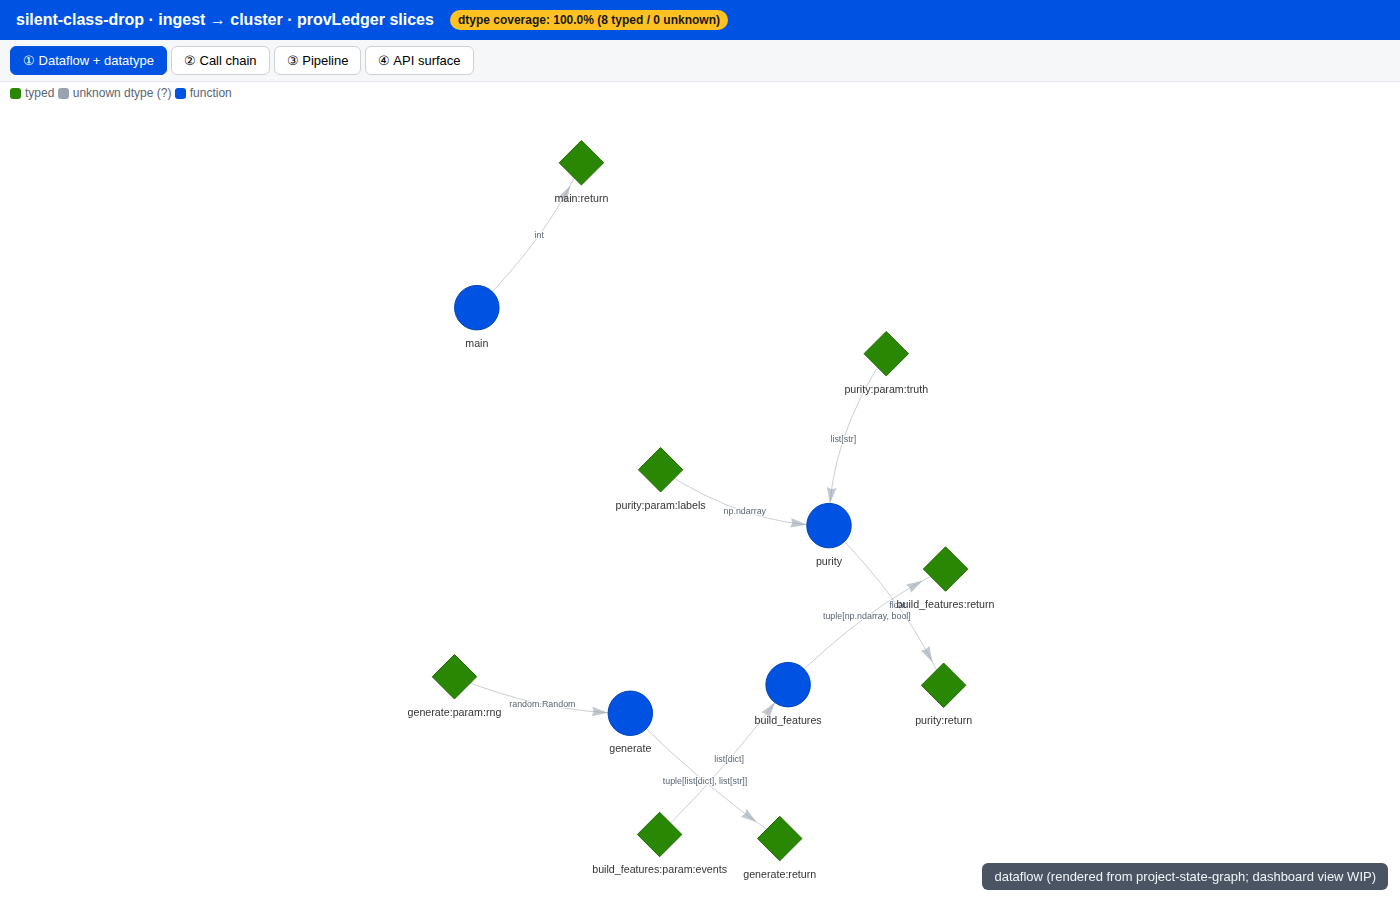
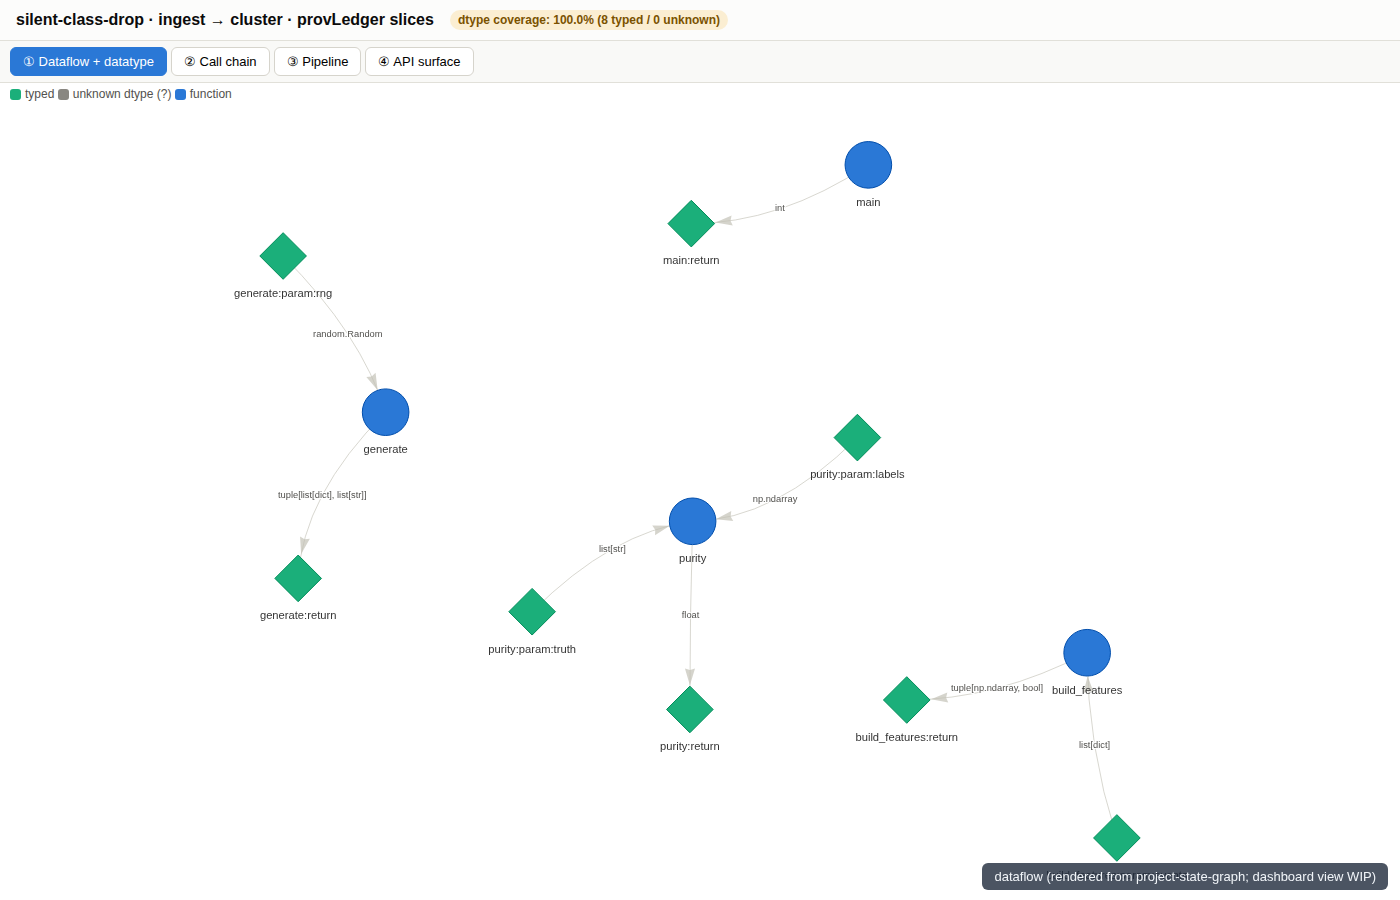
feat(viz): apply the validated palette to slice_viz + graph_viz
Same design language as the redesigned dashboard (PR #24), applied to the
project-state-graph visualizations:

- chrome: quiet surface header (solid blue banner gone), warm-neutral ink/
  hairline tokens, coverage badge as a warning-tint chip
- node identity -> categorical slots (function blue, typed data aqua, class
  yellow, route violet, sql orange, css magenta, ...); unknown-dtype sentinel
  -> muted ink; focus halo -> warning tint
- edges recessive (baseline tone) so marks carry the identity
- graph_viz.py kept byte-identical across both skills
- test_slice_viz gray assertions now reference slice_viz.GRAY instead of a
  hardcoded hex; PSG 232+update-psg 55 green
- docs/media/dataflow.png re-captured with the new palette

Claude-Session: https://claude.ai/code/session_01FTm5gcxZVgYtjLKCtARamY

diff --git a/skills/project-state-graph/scripts/analyzer/slice_viz.py b/skills/project-state-graph/scripts/analyzer/slice_viz.py
@@ -35,11 +35,11 @@ def _safe_json(data) -> str:
             .replace("
", "\\u2028").replace("
", "\\u2029"))
 
 # ── palette ────────────────────────────────────────────────────────────
-BRAND_BLUE = "#0053e2"
-SPARK = "#ffc220"
-GREEN = "#2a8703"
-ORANGE = "#ff8c00"
-GRAY = "#9aa3af"           # the "unknown dtype" sentinel color
+BRAND_BLUE = "#2a78d6"
+SPARK = "#fab219"
+GREEN = "#1baf7a"
+ORANGE = "#eb6834"
+GRAY = "#898781"           # the "unknown dtype" sentinel color (muted ink)
 
 UNKNOWN_DTYPES = {"", "unknown", "any", "object?"}
 
@@ -74,7 +74,7 @@ def build_dataflow(db_path: str) -> Dict:
     """Variable/column-granularity dataflow slice with dtype coverage.
 
     Returns ``{nodes, edges, dtype_coverage:{typed, unknown, pct}}``. Unknown
-    dtypes are gray (#9aa3af) with a trailing ``?`` in the label; typed nodes use
+    dtypes are gray (#898781) with a trailing ``?`` in the label; typed nodes use
     the brand palette. Flow edges carry a dtype ``label`` when known.
     """
     conn = _connect(db_path)
@@ -363,20 +363,20 @@ _SLICE_TEMPLATE = r"""<!DOCTYPE html><html lang="en"><head><meta charset="utf-8"
 <title>__TITLE__ — slices</title>
 <script src="https://unpkg.com/vis-network@9.1.9/standalone/umd/vis-network.min.js"></script>
 <style>
- *{box-sizing:border-box} body{margin:0;font-family:-apple-system,Segoe UI,Roboto,Arial,sans-serif;color:#16191f}
- header{background:#0053e2;color:#fff;padding:10px 16px;display:flex;gap:16px;align-items:center;flex-wrap:wrap}
+ *{box-sizing:border-box} body{margin:0;font-family:-apple-system,Segoe UI,Roboto,Arial,sans-serif;color:#0b0b0b}
+ header{background:#fcfcfb;color:#0b0b0b;border-bottom:1px solid #e1e0d9;padding:10px 16px;display:flex;gap:16px;align-items:center;flex-wrap:wrap}
  header h1{font-size:16px;margin:0;font-weight:600}
- .badge{background:#ffc220;color:#16191f;font-size:12px;font-weight:600;padding:3px 8px;border-radius:10px}
- .tabs{display:flex;gap:4px;background:#f6f7f9;border-bottom:1px solid #e3e6ea;padding:6px 10px}
- .tab{font-size:13px;padding:6px 12px;border:1px solid #cdd2d9;background:#fff;border-radius:6px;cursor:pointer}
- .tab.active{background:#0053e2;color:#fff;border-color:#0053e2}
+ .badge{background:rgba(250,178,25,.18);color:#7a5200;font-size:12px;font-weight:600;padding:3px 8px;border-radius:10px}
+ .tabs{display:flex;gap:4px;background:#f9f9f7;border-bottom:1px solid #e1e0d9;padding:6px 10px}
+ .tab{font-size:13px;padding:6px 12px;border:1px solid #d6d4cc;background:#fff;border-radius:6px;cursor:pointer}
+ .tab.active{background:#2a78d6;color:#fff;border-color:#2a78d6}
  .panel{display:none;height:calc(100vh - 96px)} .panel.active{display:block}
  .net{width:100%;height:100%}
- .toolbar{padding:6px 10px;font-size:12px;color:#5a6573;display:flex;gap:10px;align-items:center}
- .toolbar input{padding:4px 8px;border:1px solid #cdd2d9;border-radius:6px}
- table{border-collapse:collapse;width:100%;font-size:13px} th,td{border:1px solid #e3e6ea;padding:6px 10px;text-align:left;vertical-align:top}
- th{background:#f6f7f9} code{background:#f0f2f5;padding:1px 5px;border-radius:4px;font-size:12px}
- .legend{font-size:12px;color:#5a6573;padding:4px 10px}
+ .toolbar{padding:6px 10px;font-size:12px;color:#52514e;display:flex;gap:10px;align-items:center}
+ .toolbar input{padding:4px 8px;border:1px solid #d6d4cc;border-radius:6px}
+ table{border-collapse:collapse;width:100%;font-size:13px} th,td{border:1px solid #e1e0d9;padding:6px 10px;text-align:left;vertical-align:top}
+ th{background:#f9f9f7} code{background:#f0efec;padding:1px 5px;border-radius:4px;font-size:12px}
+ .legend{font-size:12px;color:#52514e;padding:4px 10px}
  .sw{display:inline-block;width:11px;height:11px;border-radius:3px;vertical-align:middle;margin-right:4px}
 </style></head><body>
 <header><h1>__TITLE__ · provLedger slices</h1>
@@ -388,15 +388,15 @@ _SLICE_TEMPLATE = r"""<!DOCTYPE html><html lang="en"><head><meta charset="utf-8"
  <button class="tab" data-p="api">④ API surface</button>
 </div>
 <div id="dataflow" class="panel active">
- <div class="legend"><span class="sw" style="background:#2a8703"></span>typed
-  <span class="sw" style="background:#9aa3af"></span>unknown dtype (?)
-  <span class="sw" style="background:#0053e2"></span>function</div>
+ <div class="legend"><span class="sw" style="background:#1baf7a"></span>typed
+  <span class="sw" style="background:#898781"></span>unknown dtype (?)
+  <span class="sw" style="background:#2a78d6"></span>function</div>
  <div class="net" id="net_dataflow"></div></div>
 <div id="callchain" class="panel">
  <div class="toolbar">Focus:&nbsp;<input id="focusInput" placeholder="qualified_name"><button id="focusBtn">Show</button>
-  <span class="legend"><span class="sw" style="background:#ffc220"></span>focus
-   <span class="sw" style="background:#0053e2"></span>caller
-   <span class="sw" style="background:#2a8703"></span>callee</span></div>
+  <span class="legend"><span class="sw" style="background:#fab219"></span>focus
+   <span class="sw" style="background:#2a78d6"></span>caller
+   <span class="sw" style="background:#1baf7a"></span>callee</span></div>
  <div class="net" id="net_callchain" style="height:calc(100% - 40px)"></div></div>
 <div id="pipeline" class="panel"><div class="net" id="net_pipeline"></div></div>
 <div id="api" class="panel" style="overflow:auto;padding:12px">
@@ -404,8 +404,8 @@ _SLICE_TEMPLATE = r"""<!DOCTYPE html><html lang="en"><head><meta charset="utf-8"
  <tbody id="apiBody"></tbody></table></div>
 <script>
 const DATA=__DATA__;
-function styleEdges(es){es.forEach(e=>{e.arrows=e.arrows||'to';e.color=e.color||{color:'#9aa3af',opacity:0.6};
- e.smooth=e.smooth||{type:'continuous'};if(e.label)e.font={size:10,color:'#5a6573'};});return es;}
+function styleEdges(es){es.forEach(e=>{e.arrows=e.arrows||'to';e.color=e.color||{color:'#c3c2b7',opacity:0.7};
+ e.smooth=e.smooth||{type:'continuous'};if(e.label)e.font={size:10,color:'#52514e'};});return es;}
 function mkNet(elId,nodes,edges,opts){return new vis.Network(document.getElementById(elId),
  {nodes:new vis.DataSet(nodes),edges:new vis.DataSet(styleEdges(edges))},
  Object.assign({nodes:{font:{size:12}},edges:{},interaction:{hover:true,tooltipDelay:120},
@@ -415,7 +415,7 @@ mkNet('net_dataflow',DATA.dataflow.nodes,DATA.dataflow.edges);
 // slice 3 pipeline (hierarchical)
 const pipeNodes=[],pipeEdges=[];
 DATA.pipeline.pipelines.forEach((p,pi)=>{p.steps.forEach(s=>{pipeNodes.push({id:'p'+pi+'_'+s.node_id+'_'+s.index,
- label:s.index+'. '+s.fn,color:'#0053e2',shape:'box',font:{color:'#fff',size:12}});});
+ label:s.index+'. '+s.fn,color:'#2a78d6',shape:'box',font:{color:'#fff',size:12}});});
  for(let i=0;i<p.steps.length-1;i++){pipeEdges.push({from:'p'+pi+'_'+p.steps[i].node_id+'_'+p.steps[i].index,
   to:'p'+pi+'_'+p.steps[i+1].node_id+'_'+p.steps[i+1].index});}});
 mkNet('net_pipeline',pipeNodes,pipeEdges,{layout:{hierarchical:{direction:'LR',sortMethod:'directed',levelSeparation:160}},physics:false});
@@ -423,7 +423,7 @@ mkNet('net_pipeline',pipeNodes,pipeEdges,{layout:{hierarchical:{direction:'LR',s
 const tb=document.getElementById('apiBody');
 DATA.api.forEach(r=>{const tr=document.createElement('tr');
  tr.innerHTML='<td><code>'+r.path+'</code></td><td>'+r.method+'</td><td>'+r.handler+'</td><td>'+(r.handler_file||'')+'</td><td>'+
-  (r.calls.length?r.calls.map(c=>'<code>'+c+'</code>').join(' '):'<span style="color:#9aa3af">—</span>')+'</td>';
+  (r.calls.length?r.calls.map(c=>'<code>'+c+'</code>').join(' '):'<span style="color:#898781">—</span>')+'</td>';
  tb.appendChild(tr);});
 // slice 2 call chain (interactive focus)
 let ccNet=null;
@@ -433,10 +433,10 @@ function renderCC(focus){const all=DATA.callchain_all;
  nodes.forEach(n=>{byName[n.qualified_name]=n.id;byName[n.label]=byName[n.label]||n.id;});
  let fid=byName[focus];
  const elId='net_callchain';
- if(fid==null){document.getElementById(elId).innerHTML='<p style="padding:12px;color:#9aa3af">No function named '+focus+'</p>';return;}
+ if(fid==null){document.getElementById(elId).innerHTML='<p style="padding:12px;color:#898781">No function named '+focus+'</p>';return;}
  const callers={},callees={};edges.forEach(e=>{(callees[e.from]=callees[e.from]||[]).push(e.to);(callers[e.to]=callers[e.to]||[]).push(e.from);});
  const dir={};dir[fid]='focus';[['caller',callers],['callee',callees]].forEach(([tag,adj])=>{(adj[fid]||[]).forEach(n=>{if(!(n in dir))dir[n]=tag;});});
- const col={focus:'#ffc220',caller:'#0053e2',callee:'#2a8703'};
+ const col={focus:'#fab219',caller:'#2a78d6',callee:'#1baf7a'};
  const vn=nodes.filter(n=>n.id in dir).map(n=>Object.assign({},n,{color:col[dir[n.id]],shape:dir[n.id]=='focus'?'star':'dot'}));
  const ids=new Set(vn.map(n=>n.id));const ve=edges.filter(e=>ids.has(e.from)&&ids.has(e.to)).map(e=>Object.assign({},e));
  document.getElementById(elId).innerHTML='';ccNet=mkNet(elId,vn,ve);}

diff --git a/skills/project-state-graph/scripts/analyzer/graph_viz.py b/skills/project-state-graph/scripts/analyzer/graph_viz.py
@@ -28,20 +28,20 @@ import sqlite3
 from typing import Dict, List, Tuple
 
 # ── palette ────────────────────────────────────────────────────────────────
-BRAND_BLUE = "#0053e2"
-SPARK = "#ffc220"
-RED = "#ea1100"
-GREEN = "#2a8703"
+BRAND_BLUE = "#2a78d6"
+SPARK = "#fab219"
+RED = "#e34948"
+GREEN = "#1baf7a"
 
 _NODE_COLORS = {
-    "file": "#0053e2", "function": "#2a8703", "method": "#76c043",
-    "class": "#ffc220", "module": "#888888", "pipeline": "#ea1100",
-    "route": "#a020f0", "sql_table": "#ff8c00", "bq_dataset": "#d2691e",
-    "css_selector": "#00b0b9", "data_var": "#555555",
+    "file": "#2a78d6", "function": "#1baf7a", "method": "#199e70",
+    "class": "#fab219", "module": "#898781", "pipeline": "#e34948",
+    "route": "#4a3aa7", "sql_table": "#eb6834", "bq_dataset": "#d95926",
+    "css_selector": "#e87ba4", "data_var": "#52514e",
 }
 # one hue per subsystem (assigned deterministically by sort order)
-_SUB_PALETTE = ["#0053e2", "#2a8703", "#a020f0", "#ff8c00", "#00b0b9",
-                "#ea1100", "#76c043", "#d2691e", "#5a6573", "#c01865"]
+_SUB_PALETTE = ["#2a78d6", "#1baf7a", "#4a3aa7", "#eb6834", "#e87ba4",
+                "#e34948", "#199e70", "#d95926", "#52514e", "#d55181"]
 
 APP_FUNC_TYPES = ("function", "method", "route")
 FLOW_EDGES = ("calls", "downstream_data_feed", "produces", "consumes", "feeds")
@@ -131,7 +131,7 @@ def build_subsystems(db_path: str) -> Dict:
     vis_edges = [{
         "from": ss, "to": ds, "value": w, "width": 1 + 7 * (w / max_w),
         "title": f"{ss} \u2192 {ds}: {w} refs", "arrows": "to",
-        "color": {"color": "#9aa3af", "opacity": 0.6},
+        "color": {"color": "#c3c2b7", "opacity": 0.7},
         "smooth": {"type": "curvedCW", "roundness": 0.15},
     } for (ss, ds), w in dep.items()]
 
@@ -220,7 +220,7 @@ WHERE t.name IN ({ph}) AND NOT {_TEST_PRED}""",
             node["unconsumed"] = unconsumed
             if unconsumed:
                 # dim + dashed border so terminal data reads as a dead-end
-                node["color"] = {"background": "#fff3cc", "border": "#bbbbbb"}
+                node["color"] = {"background": "#fdeecd", "border": "#c98500"}
                 node["shapeProperties"] = {"borderDashes": [4, 4]}
         nodes.append(node)
 
@@ -264,7 +264,7 @@ def build_full(db_path: str) -> Dict:
             "qualified_name": qname, "file_path": fpath,
             "profiles": profs,
             "title": "\n".join(title),
-            "color": _NODE_COLORS.get(ntype, "#999999"),
+            "color": _NODE_COLORS.get(ntype, "#898781"),
         })
     edges = [{
         "from": s, "to": d, "edge_type": t,
@@ -283,18 +283,18 @@ _TEMPLATE = r"""<!DOCTYPE html><html lang="en"><head><meta charset="utf-8">
 <title>__TITLE__ — __LEVEL__</title>
 <script src="https://unpkg.com/vis-network@9.1.9/standalone/umd/vis-network.min.js"></script>
 <style>
- *{box-sizing:border-box} body{margin:0;font-family:-apple-system,Segoe UI,Roboto,Arial,sans-serif;color:#16191f}
- header{background:#0053e2;color:#fff;padding:10px 16px;display:flex;gap:16px;align-items:center}
+ *{box-sizing:border-box} body{margin:0;font-family:-apple-system,Segoe UI,Roboto,Arial,sans-serif;color:#0b0b0b}
+ header{background:#fcfcfb;color:#0b0b0b;border-bottom:1px solid #e1e0d9;padding:10px 16px;display:flex;gap:16px;align-items:center}
  header h1{font-size:16px;margin:0;font-weight:600} header .stats{font-size:12px;opacity:.9}
  #wrap{display:flex;height:calc(100vh - 44px)}
- #panel{width:240px;overflow:auto;border-right:1px solid #e3e6ea;padding:12px}
+ #panel{width:240px;overflow:auto;border-right:1px solid #e1e0d9;padding:12px}
  #net{flex:1}
- .group{margin-bottom:16px} .group h2{font-size:12px;text-transform:uppercase;letter-spacing:.04em;color:#5a6573;margin:0 0 8px}
+ .group{margin-bottom:16px} .group h2{font-size:12px;text-transform:uppercase;letter-spacing:.04em;color:#52514e;margin:0 0 8px}
  label{display:flex;align-items:center;gap:8px;font-size:13px;padding:3px 0;cursor:pointer}
  .sw{width:12px;height:12px;border-radius:3px;display:inline-block}
- .count{color:#8a93a0;font-size:11px;margin-left:auto}
- #search{width:100%;padding:6px 8px;margin-bottom:10px;border:1px solid #cdd2d9;border-radius:6px}
- button{font-size:12px;padding:4px 8px;border:1px solid #cdd2d9;background:#f6f7f9;border-radius:6px;cursor:pointer}
+ .count{color:#898781;font-size:11px;margin-left:auto}
+ #search{width:100%;padding:6px 8px;margin-bottom:10px;border:1px solid #d6d4cc;border-radius:6px}
+ button{font-size:12px;padding:4px 8px;border:1px solid #d6d4cc;background:#f9f9f7;border-radius:6px;cursor:pointer}
  .btn-row{display:flex;gap:6px;margin-bottom:8px}
 </style></head><body>
 <header><h1>__TITLE__ · __LEVEL__ map</h1><span class="stats" id="stats"></span></header>
@@ -303,7 +303,7 @@ _TEMPLATE = r"""<!DOCTYPE html><html lang="en"><head><meta charset="utf-8">
   <div class="btn-row"><button id="fit">Fit</button><button id="physics">Physics</button><button id="clearFocus">Clear focus</button></div>
   <div class="group" id="subflowGroup"><h2>Sub-flow lens</h2>
     <select id="subflow"><option value="">(full graph)</option></select>
-    <div id="focusNote" style="font-size:11px;color:#5a6573;margin-top:6px">Click a node to focus its end-to-end subgraph.</div>
+    <div id="focusNote" style="font-size:11px;color:#52514e;margin-top:6px">Click a node to focus its end-to-end subgraph.</div>
   </div>
   <div class="group" id="legendGroup"><h2>Subsystems</h2><div id="legend"></div></div>
   <div class="group" id="nodeGroup"><h2>Node types</h2><div id="nodeF"></div></div>
@@ -312,11 +312,11 @@ _TEMPLATE = r"""<!DOCTYPE html><html lang="en"><head><meta charset="utf-8">
 <script>
 const GRAPH_DATA=__GRAPH_DATA__, G=GRAPH_DATA, LEVEL="__LEVEL__";
 const allNodes=G.nodes, allEdges=G.edges.map((e,i)=>Object.assign({id:i},e));
-const EDGE_STYLE={calls:{color:'#9aa3af',dashes:false},
- downstream_data_feed:{color:'#0053e2',dashes:false},
- feeds:{color:'#0053e2',dashes:false},
- produces:{color:'#2a8703',dashes:true}, consumes:{color:'#ff8c00',dashes:true}};
-allEdges.forEach(e=>{if(e.edge_type){const s=EDGE_STYLE[e.edge_type]||{color:'#bbb'};
+const EDGE_STYLE={calls:{color:'#c3c2b7',dashes:false},
+ downstream_data_feed:{color:'#2a78d6',dashes:false},
+ feeds:{color:'#2a78d6',dashes:false},
+ produces:{color:'#1baf7a',dashes:true}, consumes:{color:'#eb6834',dashes:true}};
+allEdges.forEach(e=>{if(e.edge_type){const s=EDGE_STYLE[e.edge_type]||{color:'#c3c2b7'};
  e.color={color:s.color,opacity:0.55}; e.dashes=s.dashes; e.arrows=e.arrows||'to';
  e.smooth=e.smooth||{type:'continuous'};}});
 const hasTypes=(G.node_types&&G.node_types.length)>0;
@@ -340,7 +340,7 @@ if(hasTypes){
   nf.insertAdjacentHTML('beforeend','<label><input type="checkbox" id="'+id+'" checked>'+t+'<span class="count">'+(nc[t]||0)+'</span></label>');
   nf.querySelector('#'+CSS.escape(id)).onchange=e=>{e.target.checked?onN.add(t):onN.delete(t);render();};});
  const ef=document.getElementById('edgeF');
- G.edge_types.forEach(t=>{const id='et_'+t; const sw=(EDGE_STYLE[t]||{}).color||'#bbb';
+ G.edge_types.forEach(t=>{const id='et_'+t; const sw=(EDGE_STYLE[t]||{}).color||'#c3c2b7';
   ef.insertAdjacentHTML('beforeend','<label><input type="checkbox" id="'+id+'" checked><span class="sw" style="background:'+sw+'"></span>'+t+'<span class="count">'+(ec[t]||0)+'</span></label>');
   ef.querySelector('#'+CSS.escape(id)).onchange=e=>{e.target.checked?onE.add(t):onE.delete(t);render();};});
 }else{document.getElementById('nodeGroup').style.display='none';document.getElementById('edgeGroup').style.display='none';}

diff --git a/skills/update-project-state-graph/scripts/graph_viz.py b/skills/update-project-state-graph/scripts/graph_viz.py
@@ -28,20 +28,20 @@ import sqlite3
 from typing import Dict, List, Tuple
 
 # ── palette ────────────────────────────────────────────────────────────────
-BRAND_BLUE = "#0053e2"
-SPARK = "#ffc220"
-RED = "#ea1100"
-GREEN = "#2a8703"
+BRAND_BLUE = "#2a78d6"
+SPARK = "#fab219"
+RED = "#e34948"
+GREEN = "#1baf7a"
 
 _NODE_COLORS = {
-    "file": "#0053e2", "function": "#2a8703", "method": "#76c043",
-    "class": "#ffc220", "module": "#888888", "pipeline": "#ea1100",
-    "route": "#a020f0", "sql_table": "#ff8c00", "bq_dataset": "#d2691e",
-    "css_selector": "#00b0b9", "data_var": "#555555",
+    "file": "#2a78d6", "function": "#1baf7a", "method": "#199e70",
+    "class": "#fab219", "module": "#898781", "pipeline": "#e34948",
+    "route": "#4a3aa7", "sql_table": "#eb6834", "bq_dataset": "#d95926",
+    "css_selector": "#e87ba4", "data_var": "#52514e",
 }
 # one hue per subsystem (assigned deterministically by sort order)
-_SUB_PALETTE = ["#0053e2", "#2a8703", "#a020f0", "#ff8c00", "#00b0b9",
-                "#ea1100", "#76c043", "#d2691e", "#5a6573", "#c01865"]
+_SUB_PALETTE = ["#2a78d6", "#1baf7a", "#4a3aa7", "#eb6834", "#e87ba4",
+                "#e34948", "#199e70", "#d95926", "#52514e", "#d55181"]
 
 APP_FUNC_TYPES = ("function", "method", "route")
 FLOW_EDGES = ("calls", "downstream_data_feed", "produces", "consumes", "feeds")
@@ -131,7 +131,7 @@ def build_subsystems(db_path: str) -> Dict:
     vis_edges = [{
         "from": ss, "to": ds, "value": w, "width": 1 + 7 * (w / max_w),
         "title": f"{ss} \u2192 {ds}: {w} refs", "arrows": "to",
-        "color": {"color": "#9aa3af", "opacity": 0.6},
+        "color": {"color": "#c3c2b7", "opacity": 0.7},
         "smooth": {"type": "curvedCW", "roundness": 0.15},
     } for (ss, ds), w in dep.items()]
 
@@ -220,7 +220,7 @@ WHERE t.name IN ({ph}) AND NOT {_TEST_PRED}""",
             node["unconsumed"] = unconsumed
             if unconsumed:
                 # dim + dashed border so terminal data reads as a dead-end
-                node["color"] = {"background": "#fff3cc", "border": "#bbbbbb"}
+                node["color"] = {"background": "#fdeecd", "border": "#c98500"}
                 node["shapeProperties"] = {"borderDashes": [4, 4]}
         nodes.append(node)
 
@@ -264,7 +264,7 @@ def build_full(db_path: str) -> Dict:
             "qualified_name": qname, "file_path": fpath,
             "profiles": profs,
             "title": "\n".join(title),
-            "color": _NODE_COLORS.get(ntype, "#999999"),
+            "color": _NODE_COLORS.get(ntype, "#898781"),
         })
     edges = [{
         "from": s, "to": d, "edge_type": t,
@@ -283,18 +283,18 @@ _TEMPLATE = r"""<!DOCTYPE html><html lang="en"><head><meta charset="utf-8">
 <title>__TITLE__ — __LEVEL__</title>
 <script src="https://unpkg.com/vis-network@9.1.9/standalone/umd/vis-network.min.js"></script>
 <style>
- *{box-sizing:border-box} body{margin:0;font-family:-apple-system,Segoe UI,Roboto,Arial,sans-serif;color:#16191f}
- header{background:#0053e2;color:#fff;padding:10px 16px;display:flex;gap:16px;align-items:center}
+ *{box-sizing:border-box} body{margin:0;font-family:-apple-system,Segoe UI,Roboto,Arial,sans-serif;color:#0b0b0b}
+ header{background:#fcfcfb;color:#0b0b0b;border-bottom:1px solid #e1e0d9;padding:10px 16px;display:flex;gap:16px;align-items:center}
  header h1{font-size:16px;margin:0;font-weight:600} header .stats{font-size:12px;opacity:.9}
  #wrap{display:flex;height:calc(100vh - 44px)}
- #panel{width:240px;overflow:auto;border-right:1px solid #e3e6ea;padding:12px}
+ #panel{width:240px;overflow:auto;border-right:1px solid #e1e0d9;padding:12px}
  #net{flex:1}
- .group{margin-bottom:16px} .group h2{font-size:12px;text-transform:uppercase;letter-spacing:.04em;color:#5a6573;margin:0 0 8px}
+ .group{margin-bottom:16px} .group h2{font-size:12px;text-transform:uppercase;letter-spacing:.04em;color:#52514e;margin:0 0 8px}
  label{display:flex;align-items:center;gap:8px;font-size:13px;padding:3px 0;cursor:pointer}
  .sw{width:12px;height:12px;border-radius:3px;display:inline-block}
- .count{color:#8a93a0;font-size:11px;margin-left:auto}
- #search{width:100%;padding:6px 8px;margin-bottom:10px;border:1px solid #cdd2d9;border-radius:6px}
- button{font-size:12px;padding:4px 8px;border:1px solid #cdd2d9;background:#f6f7f9;border-radius:6px;cursor:pointer}
+ .count{color:#898781;font-size:11px;margin-left:auto}
+ #search{width:100%;padding:6px 8px;margin-bottom:10px;border:1px solid #d6d4cc;border-radius:6px}
+ button{font-size:12px;padding:4px 8px;border:1px solid #d6d4cc;background:#f9f9f7;border-radius:6px;cursor:pointer}
  .btn-row{display:flex;gap:6px;margin-bottom:8px}
 </style></head><body>
 <header><h1>__TITLE__ · __LEVEL__ map</h1><span class="stats" id="stats"></span></header>
@@ -303,7 +303,7 @@ _TEMPLATE = r"""<!DOCTYPE html><html lang="en"><head><meta charset="utf-8">
   <div class="btn-row"><button id="fit">Fit</button><button id="physics">Physics</button><button id="clearFocus">Clear focus</button></div>
   <div class="group" id="subflowGroup"><h2>Sub-flow lens</h2>
     <select id="subflow"><option value="">(full graph)</option></select>
-    <div id="focusNote" style="font-size:11px;color:#5a6573;margin-top:6px">Click a node to focus its end-to-end subgraph.</div>
+    <div id="focusNote" style="font-size:11px;color:#52514e;margin-top:6px">Click a node to focus its end-to-end subgraph.</div>
   </div>
   <div class="group" id="legendGroup"><h2>Subsystems</h2><div id="legend"></div></div>
   <div class="group" id="nodeGroup"><h2>Node types</h2><div id="nodeF"></div></div>
@@ -312,11 +312,11 @@ _TEMPLATE = r"""<!DOCTYPE html><html lang="en"><head><meta charset="utf-8">
 <script>
 const GRAPH_DATA=__GRAPH_DATA__, G=GRAPH_DATA, LEVEL="__LEVEL__";
 const allNodes=G.nodes, allEdges=G.edges.map((e,i)=>Object.assign({id:i},e));
-const EDGE_STYLE={calls:{color:'#9aa3af',dashes:false},
- downstream_data_feed:{color:'#0053e2',dashes:false},
- feeds:{color:'#0053e2',dashes:false},
- produces:{color:'#2a8703',dashes:true}, consumes:{color:'#ff8c00',dashes:true}};
-allEdges.forEach(e=>{if(e.edge_type){const s=EDGE_STYLE[e.edge_type]||{color:'#bbb'};
+const EDGE_STYLE={calls:{color:'#c3c2b7',dashes:false},
+ downstream_data_feed:{color:'#2a78d6',dashes:false},
+ feeds:{color:'#2a78d6',dashes:false},
+ produces:{color:'#1baf7a',dashes:true}, consumes:{color:'#eb6834',dashes:true}};
+allEdges.forEach(e=>{if(e.edge_type){const s=EDGE_STYLE[e.edge_type]||{color:'#c3c2b7'};
  e.color={color:s.color,opacity:0.55}; e.dashes=s.dashes; e.arrows=e.arrows||'to';
  e.smooth=e.smooth||{type:'continuous'};}});
 const hasTypes=(G.node_types&&G.node_types.length)>0;
@@ -340,7 +340,7 @@ if(hasTypes){
   nf.insertAdjacentHTML('beforeend','<label><input type="checkbox" id="'+id+'" checked>'+t+'<span class="count">'+(nc[t]||0)+'</span></label>');
   nf.querySelector('#'+CSS.escape(id)).onchange=e=>{e.target.checked?onN.add(t):onN.delete(t);render();};});
  const ef=document.getElementById('edgeF');
- G.edge_types.forEach(t=>{const id='et_'+t; const sw=(EDGE_STYLE[t]||{}).color||'#bbb';
+ G.edge_types.forEach(t=>{const id='et_'+t; const sw=(EDGE_STYLE[t]||{}).color||'#c3c2b7';
   ef.insertAdjacentHTML('beforeend','<label><input type="checkbox" id="'+id+'" checked><span class="sw" style="background:'+sw+'"></span>'+t+'<span class="count">'+(ec[t]||0)+'</span></label>');
   ef.querySelector('#'+CSS.escape(id)).onchange=e=>{e.target.checked?onE.add(t):onE.delete(t);render();};});
 }else{document.getElementById('nodeGroup').style.display='none';document.getElementById('edgeGroup').style.display='none';}

diff --git a/skills/project-state-graph/scripts/tests/test_slice_viz.py b/skills/project-state-graph/scripts/tests/test_slice_viz.py
@@ -112,9 +112,9 @@ def test_dataflow_unknown_is_gray_with_question_mark(dataflow_db):
     out = slice_viz.build_dataflow(dataflow_db)
     unknown = next(n for n in out["nodes"] if "mystery" in n["label"])
     typed = next(n for n in out["nodes"] if "image" in n["label"])
-    assert unknown["color"] == "#9aa3af"          # gray sentinel
+    assert unknown["color"] == slice_viz.GRAY     # gray sentinel
     assert unknown["label"].endswith("?")          # visible '?' marker
-    assert typed["color"] != "#9aa3af"             # typed is non-gray
+    assert typed["color"] != slice_viz.GRAY        # typed is non-gray
     assert not typed["label"].endswith("?")
 
 
@@ -371,4 +371,4 @@ def test_write_slices_api_is_table(full_db, tmp_path):
 def test_write_slices_unknown_color_embedded(full_db, tmp_path):
     out = tmp_path / "s.html"
     slice_viz.write_slices(full_db, str(out), title="demo")
-    assert "#9aa3af" in out.read_text()  # gray unknown marker present in embedded JSON
+    assert slice_viz.GRAY in out.read_text()  # gray unknown marker present in embedded JSON